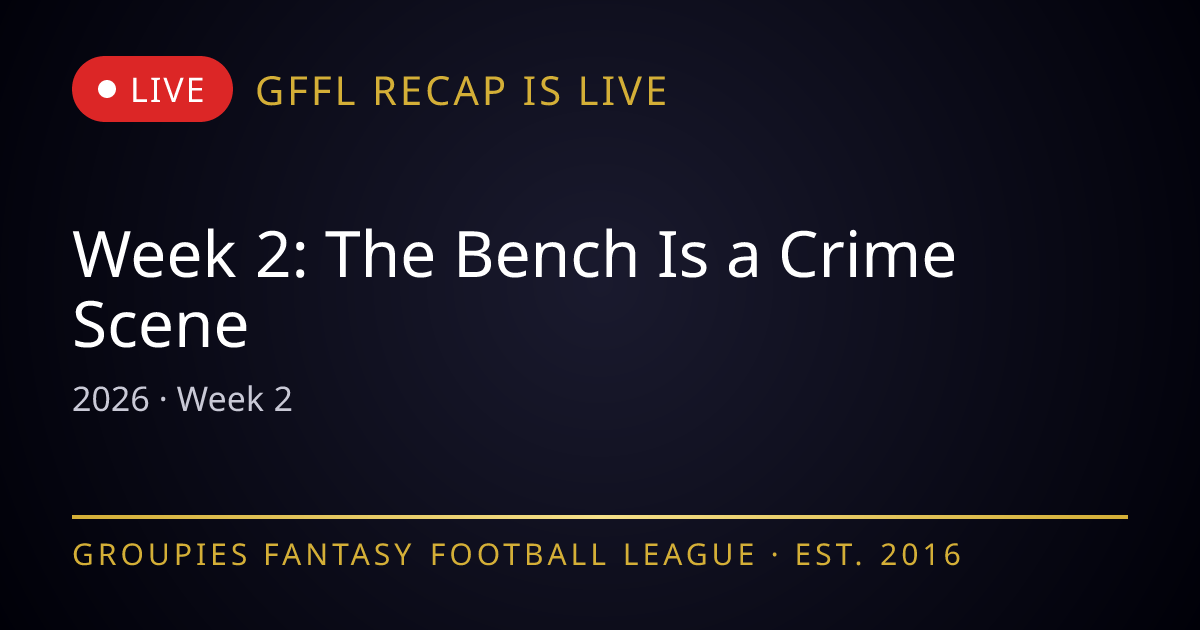
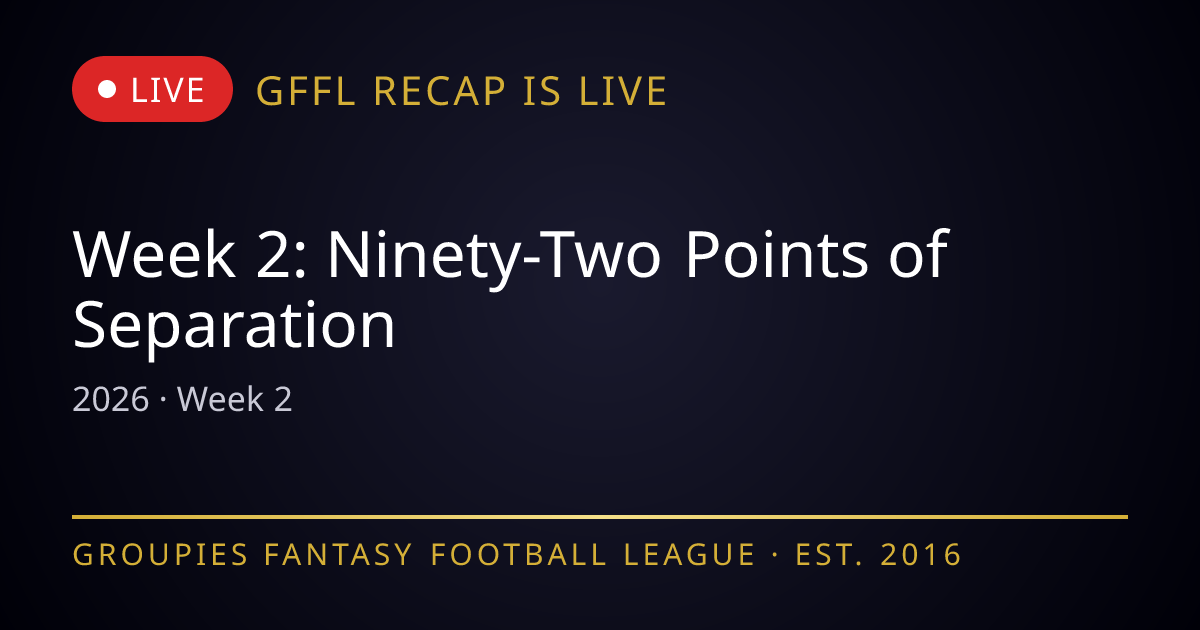
Week 2 recap: new title, and the bench ledger only counts eligible swaps
Retitled 'Ninety-Two Points of Separation'. The bench ledger now
states its rule - a bench score counts only against a lower-scoring
starter the player could have replaced - and every mention follows
it: Stafford behind a 40-point Allen is a luxury, not a crime; the
Hamptons' two flex swaps are shown against both flex starters; Worthy
counts against Sutton, not the tight end; Stroud behind Burrow is
dropped. The share cards are regenerated for the title.

Changed region(s): [[0.2775, 0.3619, 0.8017, 0.4825], [0.0925, 0.4825, 0.3392, 0.573]]

diff --git a/src/data/recaps/2026-week-02.md b/src/data/recaps/2026-week-02.md
@@ -1,5 +1,5 @@
 ---
-title: "Week 2: The Bench Is a Crime Scene"
+title: "Week 2: Ninety-Two Points of Separation"
 season: 2026
 week: 2
 date: 2026-09-22
@@ -7,15 +7,15 @@ date: 2026-09-22
 
 *"The only thing we have to fear is fear itself — and the waiver wire quarterback you left on your bench." — Franklin D. Roosevelt, lightly edited*
 
-Welcome back one and all to the second weekly installment of the GFFL Recap! Week 1 was about the studs. Week 2, it turns out, was about the *benches* — a league-wide outbreak of starting the wrong guy so severe that I briefly considered renaming this column. Four different teams left a quarterback scoring 22 or more in street clothes. One of them did it for the second week in a row with the same two quarterbacks. We'll get there. For the newcomers who skipped the syllabus: I go game by game, I celebrate the studs, I investigate the crimes, and the editorial policy is indexed to **draft capital and projections** with a cutoff at **rounds 1 through 5**. Spend a top-five-round pick and you have bought full roast liability; round 6 and later, you are judged on projection alone. And with Monday night in the books — the Rams beat the Giants 28–6, a result that mattered enormously to exactly one lineup in this league — let's get to the games.
+Welcome back one and all to the second weekly installment of the GFFL Recap! Week 1 was about the studs. Week 2, it turns out, was about the *lineups* — a league-wide outbreak of starting the wrong guy so severe that three different teams started a quarterback who was outscored by the one on their own bench, and one of them did it for the second week in a row with the same two quarterbacks. We'll get there. For the newcomers who skipped the syllabus: I go game by game, I celebrate the studs, I investigate the crimes, and the editorial policy is indexed to **draft capital and projections** with a cutoff at **rounds 1 through 5**. Spend a top-five-round pick and you have bought full roast liability; round 6 and later, you are judged on projection alone. And one clarification on the bench ledger, because the lineup has a fixed number of spots: a bench score only counts against you if that player could have taken a spot from a *lower-scoring starter he was eligible to replace*. Two quarterbacks scoring 40 and 27 is not a crime, it's a luxury. One quarterback scoring 8 while the other scores 29 on the bench — that's a crime. And with Monday night in the books — the Rams beat the Giants 28–6, a result that mattered enormously to exactly one lineup in this league — let's get to the games.
 
 ## The Fellowship of the Ringless 132.52 — Thats My Commish Do Ya Know Him 110.78
 
-Two weeks, two wins, and the same engine both times: Josh Allen, the fifth-round quarterback, put up **40.82** — the highest score by any player in the league this week, against a pregame projection of 22.7. That's 18 points of pure surplus from a pick that cost the Fellowship a fifth-rounder, and I'd like every QB drafted in rounds one through four to please form an orderly line for their weekly comparison. Gibbs (20.3) and Kittle (16) did the rest, and the Fellowship sits 2-0 with the second-most points in the league. Now, the log. Zay Flowers — a seventh-round *keeper* — started and scored **zero**, while Rashod Bateman, round 17, scored 18.3 on the bench. Same team, same game, same offense; one of them was inactive and the other was catching passes. Add Matthew Stafford's 26.98 on the bench behind Allen (no crime — you can only start one, and the one you started scored 40) and this bench out-produced a few *starting lineups* this week. Across the field, a genuine redemption arc: Davante Adams, roasted in this very column seven days ago for a fourth-round 4.1, went out on Monday night and dropped **35.5**, the third-highest score in the league. Consider the roast rescinded, with interest. The problem was everything else — Justin Jefferson (#11 overall) managed 7, Jeremiyah Love (#14 overall) 6 against an 11.3 projection, Kenny Gainwell started for 3 while Jonah Coleman scored 13.3 on the bench — and Harrison Butker was the second-leading scorer at 16. When your kicker is your #2 and your Monday night hero still loses by 22, the roster has a distribution problem.
+Two weeks, two wins, and the same engine both times: Josh Allen, the fifth-round quarterback, put up **40.82** — the highest score by any player in the league this week, against a pregame projection of 22.7. That's 18 points of pure surplus from a pick that cost the Fellowship a fifth-rounder, and I'd like every QB drafted in rounds one through four to please form an orderly line for their weekly comparison. Gibbs (20.3) and Kittle (16) did the rest, and the Fellowship sits 2-0 with the second-most points in the league. Now, the log. Zay Flowers — a seventh-round *keeper* — started and scored **zero**, while Rashod Bateman, round 17, scored 18.3 on the bench. Same team, same game, same offense; one of them was inactive and the other was catching passes. Matthew Stafford's 26.98 also sat on the bench, and per the clarification above that's no crime at all — one QB spot, and the one in it scored 40. That's the luxury case. Bateman over Flowers is the crime case. Across the field, a genuine redemption arc: Davante Adams, roasted in this very column seven days ago for a fourth-round 4.1, went out on Monday night and dropped **35.5**, the third-highest score in the league. Consider the roast rescinded, with interest. The problem was everything else — Justin Jefferson (#11 overall) managed 7, Jeremiyah Love (#14 overall) 6 against an 11.3 projection, Kenny Gainwell started for 3 while Jonah Coleman scored 13.3 on the bench — and Harrison Butker was the second-leading scorer at 16. When your kicker is your #2 and your Monday night hero still loses by 22, the roster has a distribution problem.
 
 ## Remix to Commission 148.68 — Man Getting Hit By Football 73.78
 
-Your commissioner and recapper, now 2-0, and I will once again be presenting this analysis with total objectivity: a *rout*. Brock Purdy — ninth round, pick 107 — threw for 28.48; DeVonta Smith (22.7), Kenneth Walker (20.8, the keeper that keeps on keeping), James Cook (20.4) and an 11th-round Dalton Kincaid (19 against a projection of 8.4) rounded out a lineup with five players at 19 or better. The log is not empty, because the log is never empty: Drake London, second-round pick, 6.9 points. That's 11.4 through two weeks from the 19th overall selection, and the editorial policy requires me to note that I am the one who selected him. London, we need to talk. Rhamondre Stevenson (round 5) chipped in 3.1 in the flex while Josh Downs sat with 10.7 — a misdemeanor in a 75-point win, but filed. And now Man Getting Hit By Football, last week's comfortable winner, this week's cautionary tale. 73.78 is bad. The *shape* of 73.78 is worse. Malik Nabers (round 3) scored 0.6. Dallas Goedert scored 0.9. DJ Moore (round 4, projected 10.5) scored **negative 0.1**, which I did not know was possible in this format and have now confirmed is possible in this format. Three starters, 1.4 points combined. Meanwhile, on the bench: Stefon Diggs 19.2 and Jake Ferguson 18.3 — 37 points sitting behind 1.5 at the same two positions — and C.J. Stroud's 17.02 behind Burrow for good measure. It wouldn't have won the game — nothing was winning this game — but it would have made the score look like a football result instead of a *baseball* result. CMC's 20.6 was the lone adult in the room.
+Your commissioner and recapper, now 2-0, and I will once again be presenting this analysis with total objectivity: a *rout*. Brock Purdy — ninth round, pick 107 — threw for 28.48; DeVonta Smith (22.7), Kenneth Walker (20.8, the keeper that keeps on keeping), James Cook (20.4) and an 11th-round Dalton Kincaid (19 against a projection of 8.4) rounded out a lineup with five players at 19 or better. The log is not empty, because the log is never empty: Drake London, second-round pick, 6.9 points. That's 11.4 through two weeks from the 19th overall selection, and the editorial policy requires me to note that I am the one who selected him. London, we need to talk. Rhamondre Stevenson (round 5) chipped in 3.1 in the flex while Josh Downs sat with 10.7 — a misdemeanor in a 75-point win, but filed. And now Man Getting Hit By Football, last week's comfortable winner, this week's cautionary tale. 73.78 is bad. The *shape* of 73.78 is worse. Malik Nabers (round 3) scored 0.6. Dallas Goedert scored 0.9. DJ Moore (round 4, projected 10.5) scored **negative 0.1**, which I did not know was possible in this format and have now confirmed is possible in this format. Three starters, 1.4 points combined. Meanwhile, on the bench: Stefon Diggs 19.2 and Jake Ferguson 18.3 — 37 points sitting behind 1.5 at the same two positions, a receiver for a receiver and a tight end for a tight end. It wouldn't have won the game — nothing was winning this game — but it would have made the score look like a football result instead of a *baseball* result. CMC's 20.6 was the lone adult in the room.
 
 ## Chug City 126.66 — (Traded my) Pick 6 93.96
 
@@ -23,11 +23,11 @@ Chug City, 0-1 and quiet last week, found the volume knob: Dak Prescott (round 7
 
 ## Darty in the Hamptons 115.1 — Whistlin' Willy's 79.62
 
-The Hamptons bounced back, and they did it on the shoulders of one man: Jaxon Smith-Njigba, a third-round *keeper*, **38 points** against a projection of 15.2 — the second-highest score in the league and the single largest beat of a projection all week. Add Travis Kelce (20.6 from round 8), Omarion Hampton (16.5) and a 16-point Brandon Aubrey and the win was comfortable, which is fortunate, because the rest of the lineup was a horror movie. Jaxson Dart started at quarterback on Monday night, watched the Giants score six points in Los Angeles, and returned **0.8**. Not 8. Zero point eight. Devin Singletary added 0.9 in the flex while Denzel Boston (18) and Rachaad White (11.3) rode the bench — 29 points in street clothes behind two starters who combined for 1.7. Carnell Tate (round 5) gave a 4.2 for the capital ledger. The Hamptons remain a lovely place to summer and a chaotic place to set a lineup, but 1-1 with JSN on the roster is a fine place to be. As for Whistlin' Willy's: *deep breath.* Last week Caleb Williams was this column's darling, 37.26 points, a sixth-round steal, the whole bit. This week he scored 7.72. That happens; quarterbacks have bad weeks. What does *not* just happen is picking up Patrick Mahomes off the waiver wire, watching him score **28.98**, and leaving him on the bench behind the 7.72. That's a 21-point quarterback decision, and per policy a free-agent pickup carries no draft capital, which means the only capital being burned here is *decision-making* capital. Jaylen Waddle (17.8) and Kyren Williams (14.7, on Monday night) played well; Travis Etienne (round 2, 6.1), Ladd McConkey (round 4, 5.0) and Tucker Kraft (round 5, 2.5) did not, and Blake Corum's 9.7 sat behind both flex starters. Mahomes alone doesn't flip this game. But 79.62 with a 29-point quarterback on the bench is the kind of box score that gets screenshotted.
+The Hamptons bounced back, and they did it on the shoulders of one man: Jaxon Smith-Njigba, a third-round *keeper*, **38 points** against a projection of 15.2 — the second-highest score in the league and the single largest beat of a projection all week. Add Travis Kelce (20.6 from round 8), Omarion Hampton (16.5) and a 16-point Brandon Aubrey and the win was comfortable, which is fortunate, because the rest of the lineup was a horror movie. Jaxson Dart started at quarterback on Monday night, watched the Giants score six points in Los Angeles, and returned **0.8**. Not 8. Zero point eight. Devin Singletary added 0.9 in one flex spot and Carnell Tate 4.2 in the other, while Denzel Boston (18) and Rachaad White (11.3) rode the bench — 29 points in street clothes behind two flex starters who combined for 5.1, and both swaps were legal. Tate, a fifth-rounder, also goes on the capital ledger for the 4.2. The Hamptons remain a lovely place to summer and a chaotic place to set a lineup, but 1-1 with JSN on the roster is a fine place to be. As for Whistlin' Willy's: *deep breath.* Last week Caleb Williams was this column's darling, 37.26 points, a sixth-round steal, the whole bit. This week he scored 7.72. That happens; quarterbacks have bad weeks. What does *not* just happen is picking up Patrick Mahomes off the waiver wire, watching him score **28.98**, and leaving him on the bench behind the 7.72. That's a 21-point quarterback decision, and per policy a free-agent pickup carries no draft capital, which means the only capital being burned here is *decision-making* capital. Jaylen Waddle (17.8) and Kyren Williams (14.7, on Monday night) played well; Travis Etienne (round 2, 6.1), Ladd McConkey (round 4, 5.0) and Tucker Kraft (round 5, 2.5) did not, and Blake Corum's 9.7 sat behind both flex starters. Mahomes alone doesn't flip this game. But 79.62 with a 29-point quarterback on the bench is the kind of box score that gets screenshotted.
 
 ## Kim Kardashian Boutte 86.5 — The Charleston Kirks 73.22
 
-The lowest-scoring game of the week, and both teams are going to want to skip this paragraph. Kim K Boutte gets the win, and Ja'Marr Chase (#4 overall, 23 points) is the reason — the first-rounder doing first-rounder things while Lamar Jackson (14.8) and Chuba Hubbard (13.4) provided competent support. And then the log, which for a winning team is unusually long: Jameson Williams (round 4) scored 4.3 against a 10.4 projection, Quentin Johnston started in the flex for 1.9 while TreVeyon Henderson scored 13.6 on the bench, and Michael Mayer started at tight end for 3.8 while Terrance Ferguson scored 14.4 on the bench. That's 28 bench points left behind two starters who scored 5.7 — in a game won by 13, which makes it the rare crime that would have merely *padded* the margin. The Kirks are 0-2 with the fewest points in the league, and the box score explains why: Derrick Henry — 34.8 last week — came back to earth at 16.2, De'Von Achane (#9 overall) managed 10.8, and the rest of the lineup was a rounding error. Colston Loveland (round 4) scored 0.8, Courtland Sutton 4, and Xavier Worthy's 11 sat on the bench behind both of them. Drake Maye watched his Patriots win 20–3 and contributed 8.02 to the cause. Two weeks, 165 points, and the only 30-point performance on the roster came in a loss. The Kirks need a week where the lineup and the results happen at the same time.
+The lowest-scoring game of the week, and both teams are going to want to skip this paragraph. Kim K Boutte gets the win, and Ja'Marr Chase (#4 overall, 23 points) is the reason — the first-rounder doing first-rounder things while Lamar Jackson (14.8) and Chuba Hubbard (13.4) provided competent support. And then the log, which for a winning team is unusually long: Jameson Williams (round 4) scored 4.3 against a 10.4 projection, Quentin Johnston started in the flex for 1.9 while TreVeyon Henderson scored 13.6 on the bench, and Michael Mayer started at tight end for 3.8 while Terrance Ferguson scored 14.4 on the bench. That's 28 bench points left behind two starters who scored 5.7 — in a game won by 13, which makes it the rare crime that would have merely *padded* the margin. The Kirks are 0-2 with the fewest points in the league, and the box score explains why: Derrick Henry — 34.8 last week — came back to earth at 16.2, De'Von Achane (#9 overall) managed 10.8, and the rest of the lineup was a rounding error. Colston Loveland (round 4) scored 0.8 at tight end, Courtland Sutton 4 at receiver, and Xavier Worthy's 11 sat on the bench behind Sutton. Drake Maye watched his Patriots win 20–3 and contributed 8.02 to the cause. Two weeks, 165 points, and the only 30-point performance on the roster came in a loss. The Kirks need a week where the lineup and the results happen at the same time.
 
 ## Darn Tuten 156.44 — Immaculate Concepcion 64.52
 
